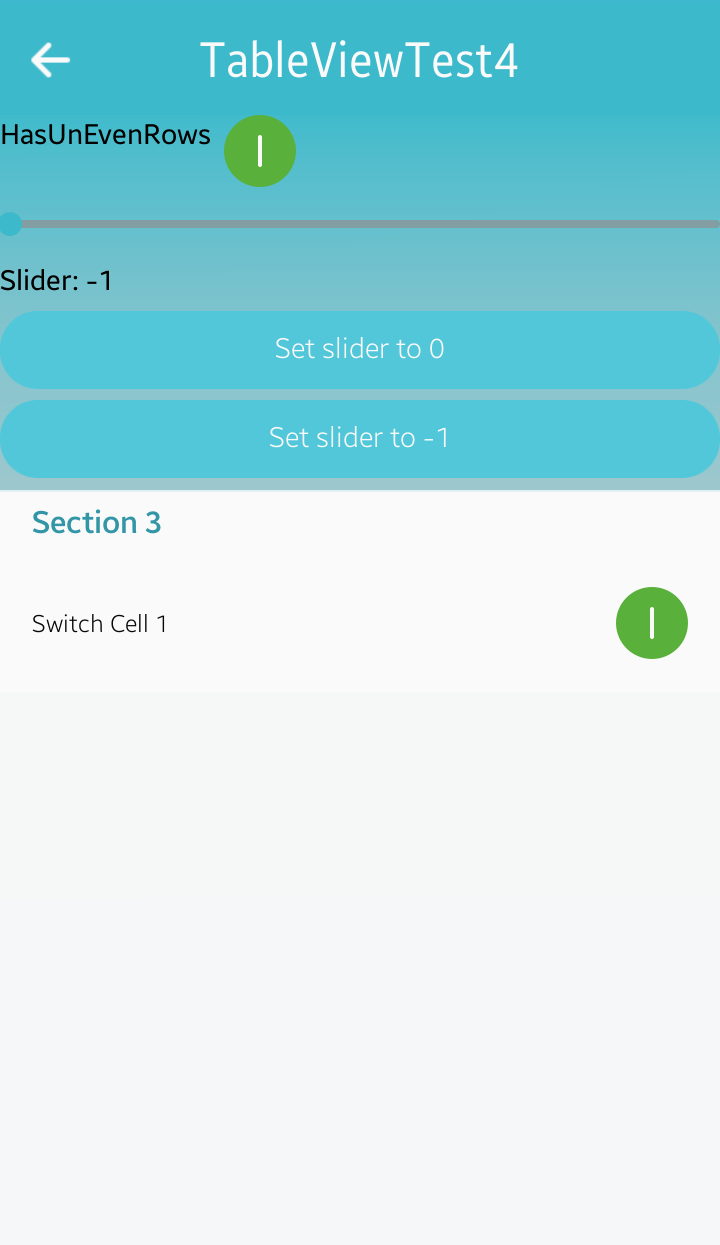
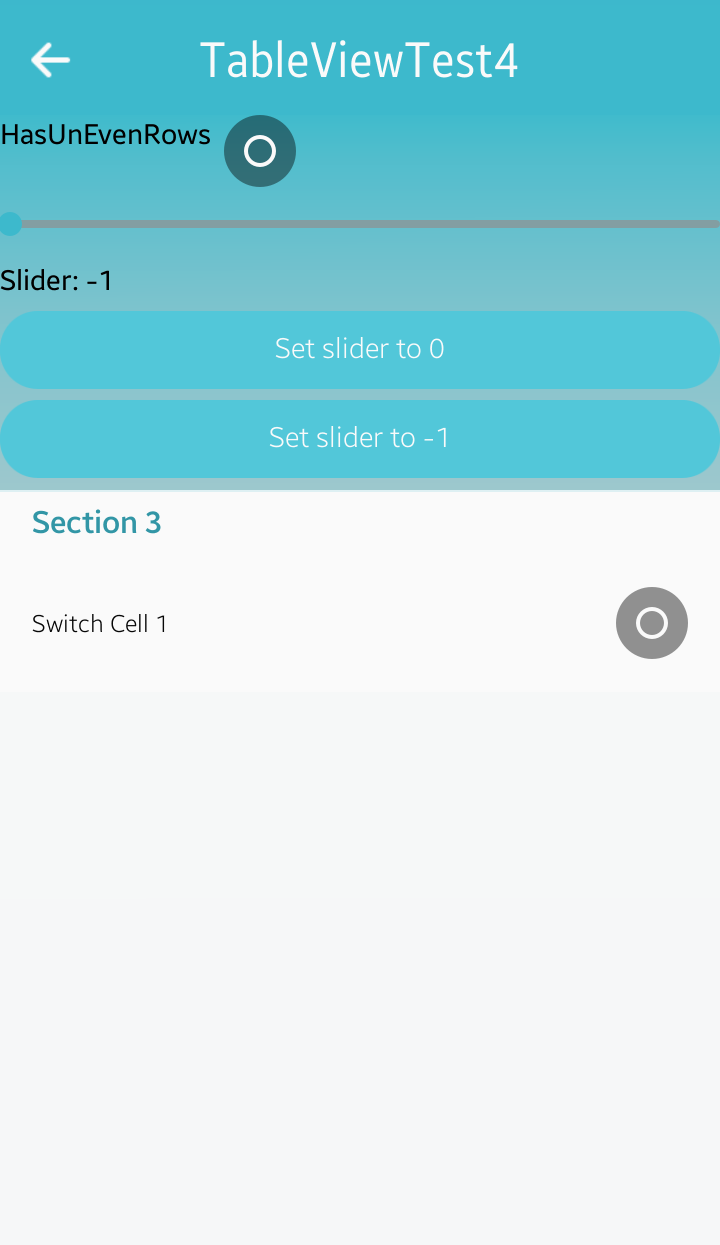
Update compareScreenshot method

Changed region(s): [[0.8556, 0.4578, 0.9778, 0.5494], [0.3056, 0.0916, 0.4278, 0.1526]]

diff --git a/Appium.UITests/UITestDriver.cs b/Appium.UITests/UITestDriver.cs
@@ -17,6 +17,7 @@ namespace Appium.UITests
         const int DelayTime = 1000;
         const string Platform = "Tizen";
 
+        static bool createFolder = false;
         static UITestDriver _instance;
         AppiumDriver<AppiumWebElement> _driver;
         RemoteTouchScreen _touchScreen;
@@ -248,7 +249,7 @@ namespace Appium.UITests
             image.Save(imagePath);
         }
 
-        public bool CompareToScreenshot(string imageName)
+        public bool CompareScreenshot(string imagePath)
         {
             TizenDriver<AppiumWebElement> tizenDriver = _driver as TizenDriver<AppiumWebElement>;
             if (tizenDriver == null)
@@ -266,10 +267,35 @@ namespace Appium.UITests
             Image image = tizenDriver.TransformScreenshot(screenshot, new Rectangle(0, 35, 720, 1280 - 35));
             image.Save(tempImagePath);
 
-            var orgImage = Image.FromFile(path + "/images/" + imageName);
+            var orgImage = Image.FromFile(path + "/images/" + imagePath);
             var compareImage = Image.FromFile(tempImagePath);
+            Image resultImage;
 
-            var result = tizenDriver.CompareImages(orgImage, compareImage);
+            var result = tizenDriver.CompareImages(orgImage, compareImage, out resultImage);
+            if (!createFolder)
+            {
+                if (!Directory.Exists(path + "/images/result"))
+                {
+                    Directory.CreateDirectory(path + "/images/result");
+                }
+                else
+                {
+                    Directory.Delete(path + "/images/result", true);
+                    Directory.CreateDirectory(path + "/images/result");
+                }
+                createFolder = true;
+            }
+
+            if (!result)
+            {
+                var imageName = imagePath.Replace(".png", "");
+                orgImage.Save(path + "/images/result/" + imageName + "_expect.png");
+                compareImage.Save(path + "/images/result/" + imageName + "_actual.png");
+                if (resultImage != null)
+                {
+                    resultImage.Save(path + "/images/result/" + imageName + "_diff.png");
+                }
+            }
 
             image.Dispose();
             compareImage.Dispose();
@@ -283,7 +309,7 @@ namespace Appium.UITests
         {
             System.Threading.Thread.Sleep(1000);
             //GetScreenshotAndSave(image);
-            Assert.AreEqual(true, CompareToScreenshot(image));
+            Assert.AreEqual(true, CompareScreenshot(image), "CompareToScreenshot result should be true. ");
         }
     }
 }

diff --git a/Appium.UITests/TC/TableViewTest4.cs b/Appium.UITests/TC/TableViewTest4.cs
@@ -8,17 +8,9 @@ namespace Appium.UITests
         [Test]
         public void ViewTest()
         {
-            var tableViewId = "table";
-            var checkId = "check";
             var set0BtnId = "btnSet0";
             var setMinus1BtnId = "btnSet_minus1";
             var sliderId = "slider";
-
-            var hasUnevenCell = Driver.GetAttribute<bool>(tableViewId, "HasUnevenRows");
-            if (!hasUnevenCell)
-            {
-                Driver.Click(checkId);
-            }
 
             Driver.Click(set0BtnId);
 
